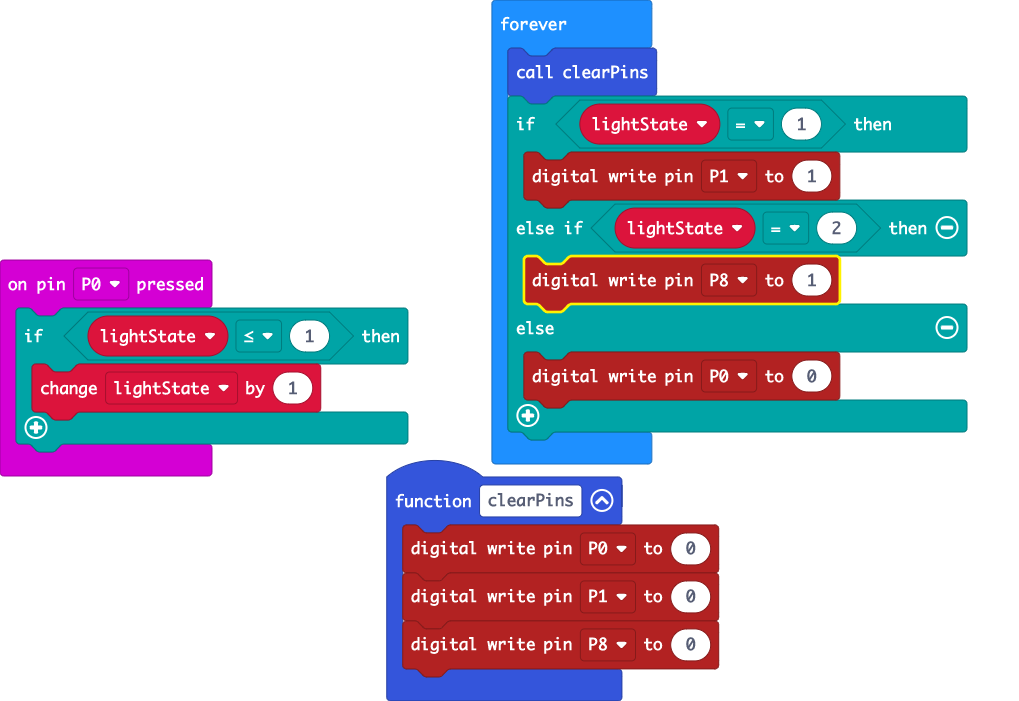
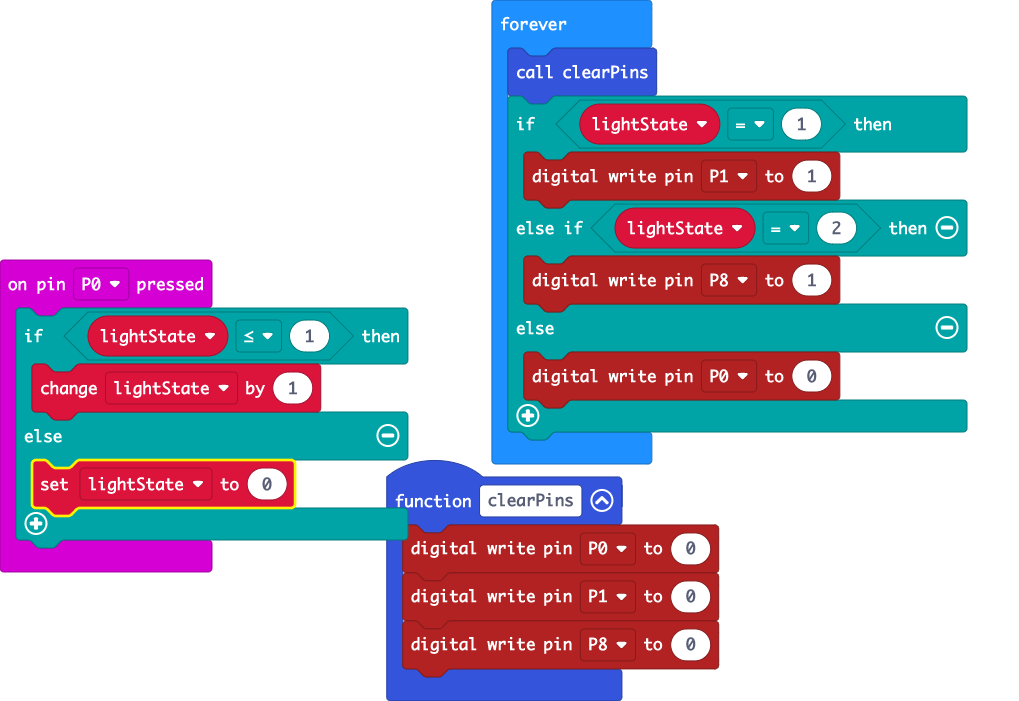
Update main.blocks, main.ts

Changed region(s): [[0.0, 0.5991, 0.4259, 0.8388], [0.4868, 0.3595, 0.8518, 0.4194], [0.5172, 0.4194, 0.8214, 0.4494]]

diff --git a/main.ts b/main.ts
@@ -2,6 +2,8 @@ let lightState = 0
 input.onPinPressed(TouchPin.P0, function () {
     if (lightState <= 1) {
         lightState += 1
+    } else {
+        lightState = 0
     }
 })
 function clearPins () {
